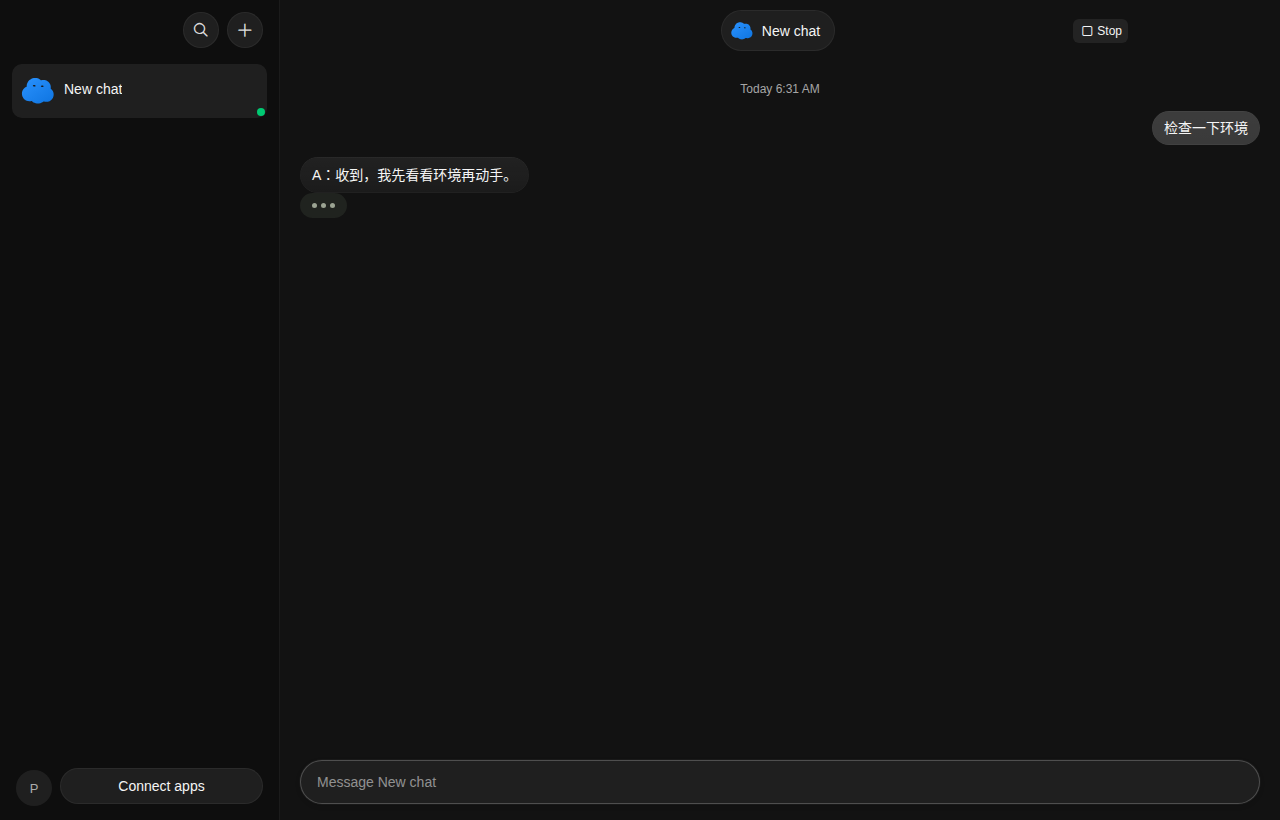
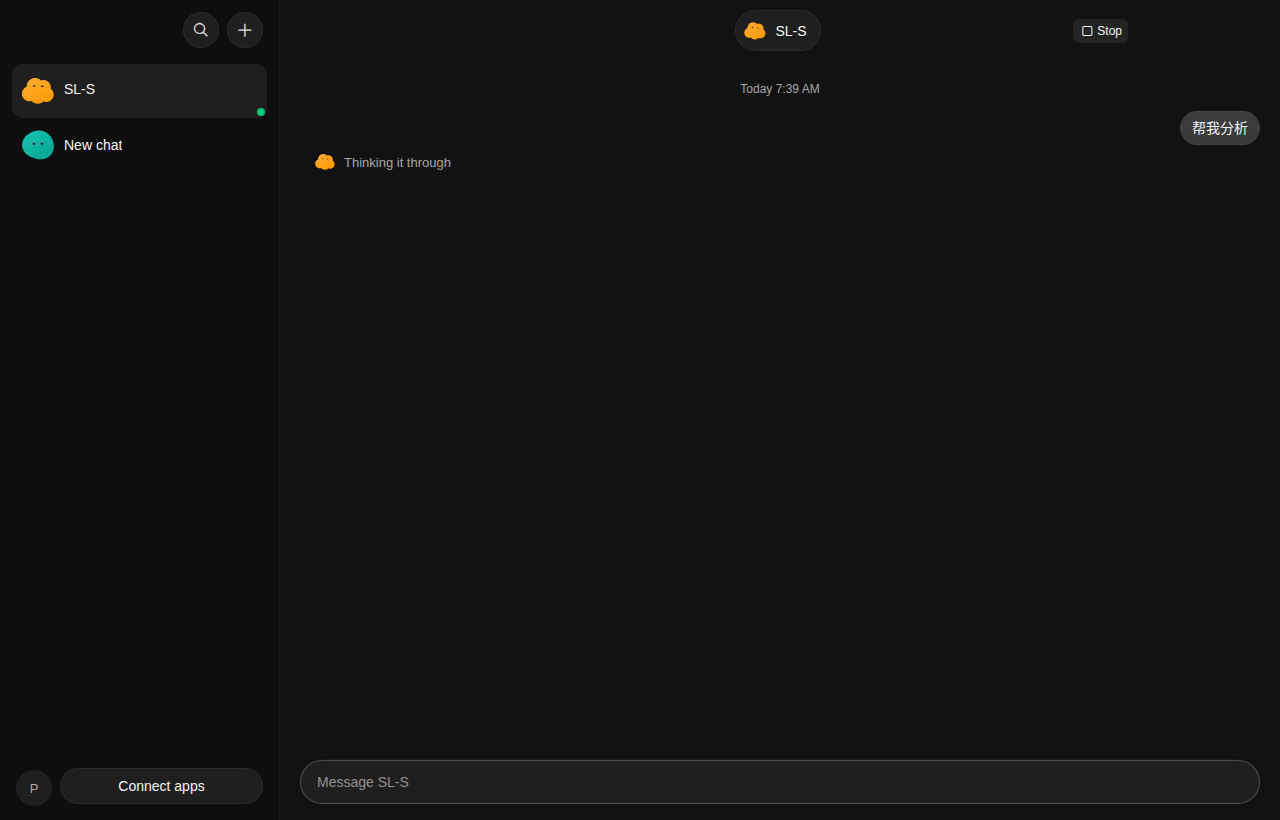
docs(receipt): T20b 事实表回仓（13形状×11色、选形不改色、短语随机起步——json 为准）

diff --git a/work/tickets/receipts/T20.md b/work/tickets/receipts/T20.md
@@ -59,3 +59,31 @@ openAgentTail；console 证据 /tmp/grok-r3-work/red.console.txt）。
 3. **状态行短语**：回执写「thinking → Mulling it over，12s 固定」。dark-t0 图是 **"Putting it together"**；且 conv-working.dark.json 四个采样**全是空串**（采样器在 dark 跑空）。所以短语是**每次挂载取一句**（至少两句已见），不是固定一句；12s 内不轮换这点光图仍成立。另：工单要的第二轮 `{kind:'tool',tool:'WebSearch'}` 没做。短语在 i18n 表 `index.eager-common-B73tST-1.js`（`"h3LL7E":["Mulling it over"]`）。
 
 验收 3 字面未达：S2 采样无「至少两个不同」；S4 json 无形状数组（只有计数），颜色只有混入其它背景色的 `bgColors`（色板顺序可从中读出：black(暗色为 white)/rgb(160,107,57)/251,43,62/253,105,15/245,147,18/20,193,111/19,183,162/30,134,252/143,89,249/249,52,152/149,149,149，共 11）。「Help me create a Bot」卡：图上没有，json 未记。
+
+---
+
+## T20b · 事实表（机器实录，2026-11-07；json 为准）
+
+### S2 短语（ref/phrase-samples.json，外层 5+5 独立挂载）
+| 场景 | 5 次挂载 t0 | 结论 |
+|---|---|---|
+| thinking（dark） | Mulling it over / Thinking it through / Mulling it over / **Putting it together** / Mulling it over | **每次挂载随机起步**（三句池全出现）；挂载内 12s 不变（先前实测） |
+| tool WebSearch（light） | Digging around ×5 | 单句类恒定 |
+
+### S4 创建对话框（create-dialog.{light,dark}.json）
+- **shapes: 13**（svg 形状钮；亮暗一致）——RE 静态 24 是资产全集，picker 用 13 子集
+- **swatches: 11 色名**（DOM 序）：Black / Brown / Red / Orange / Yellow / Green / Cyan / Blue / Violet / Magenta / Gray（aria-label "X character color"，aria-pressed 标选中）
+- **选形不改色**（推翻 RE「选形自动配色」与 queue 旧计划）：light 初值 shape 11/Orange → 点 shape3 后 3/**Orange**；dark 4/Cyan → 3/**Cyan**。形状变、色不变
+- **初始随机**：initials ×3（light：3/Blue、6/Cyan、12/Gray；dark：6/Blue、10/Orange、2/Gray）——shape 与 swatch 都随机
+- helpCard（Help me create a Bot）：False（stub 场景未触发 isBotBuilderRequested）
+- shapesSameOrder=False：点击后形状钮 svg path 头 40 字变化（path 动态生成/缩放），形状数恒 13
+
+### 旧事实表更正
+- ~~24 形状（6×4）~~ → **13**（目测误读；教训：picker 计数一律 json）
+- ~~选形自动配色~~ → **选形不改色**（预览图变色是随机初值巧合）
+- ~~短语固定 Mulling it over~~ → **随机起步**（dark 曾随机到 Putting it together 使白名单采样器落空——采样器已改 bodyText 行抽取法）
+
+### T20b 验收
+- renderer hash `7dae5633…faf2` 不变；`find extracted -newer <工单>` = 0
+- dark 采样修：samples 亮暗均非空（bodyText 抽取法；drive 内联 CDP evaluate 超时问题绕开——mountT0 由外层聚合）
+- nonLoopbackRequests 全 []
